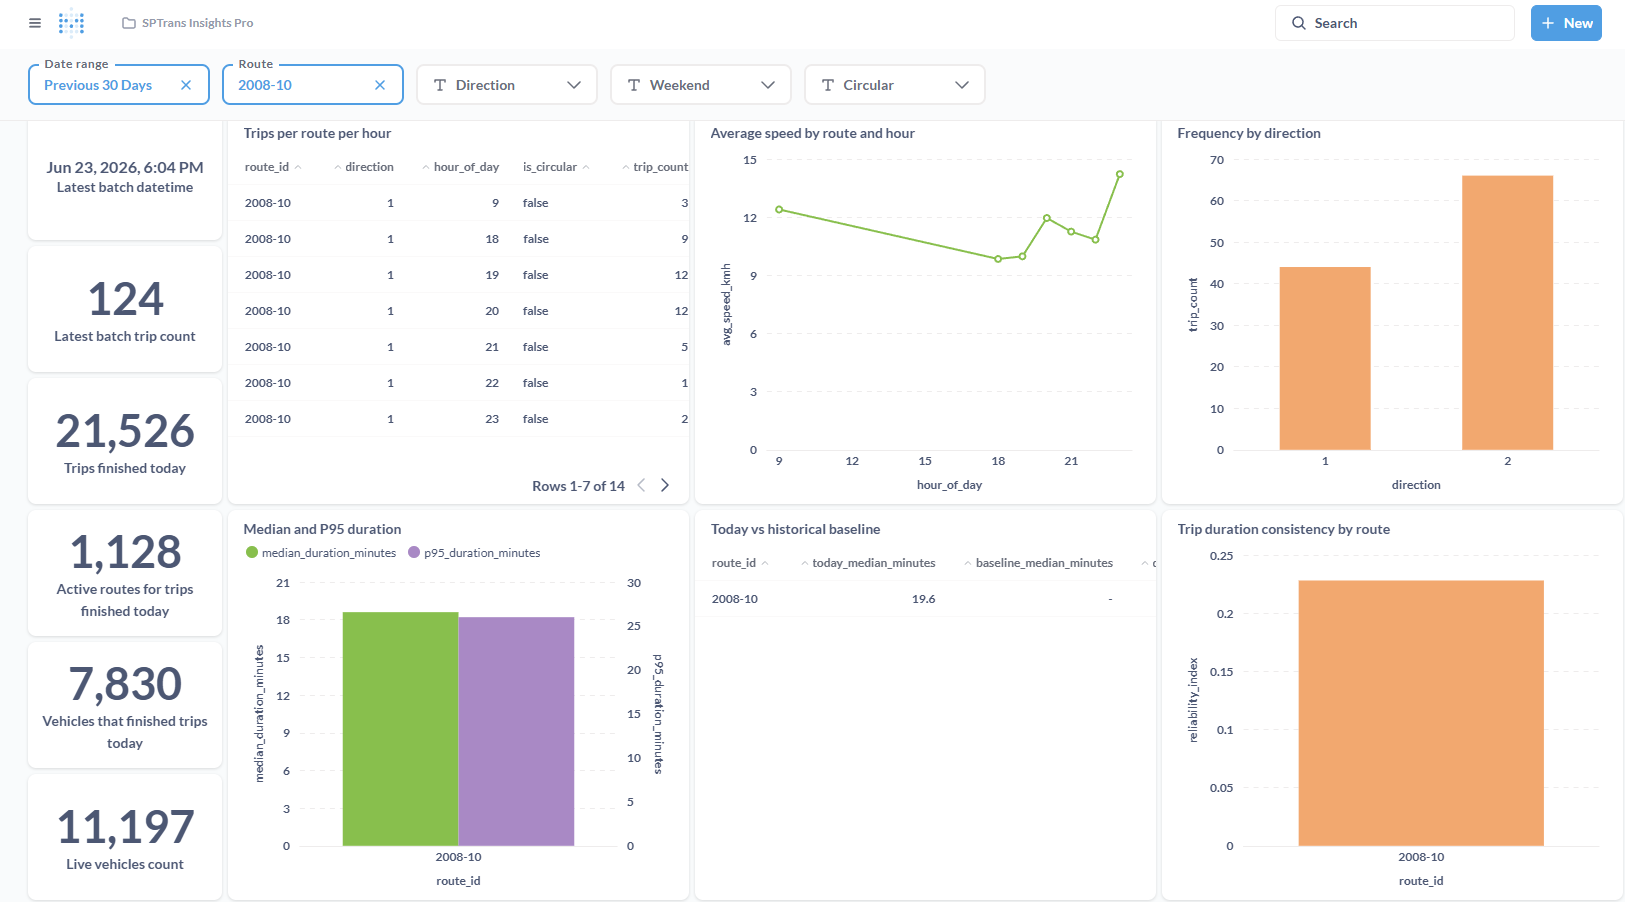
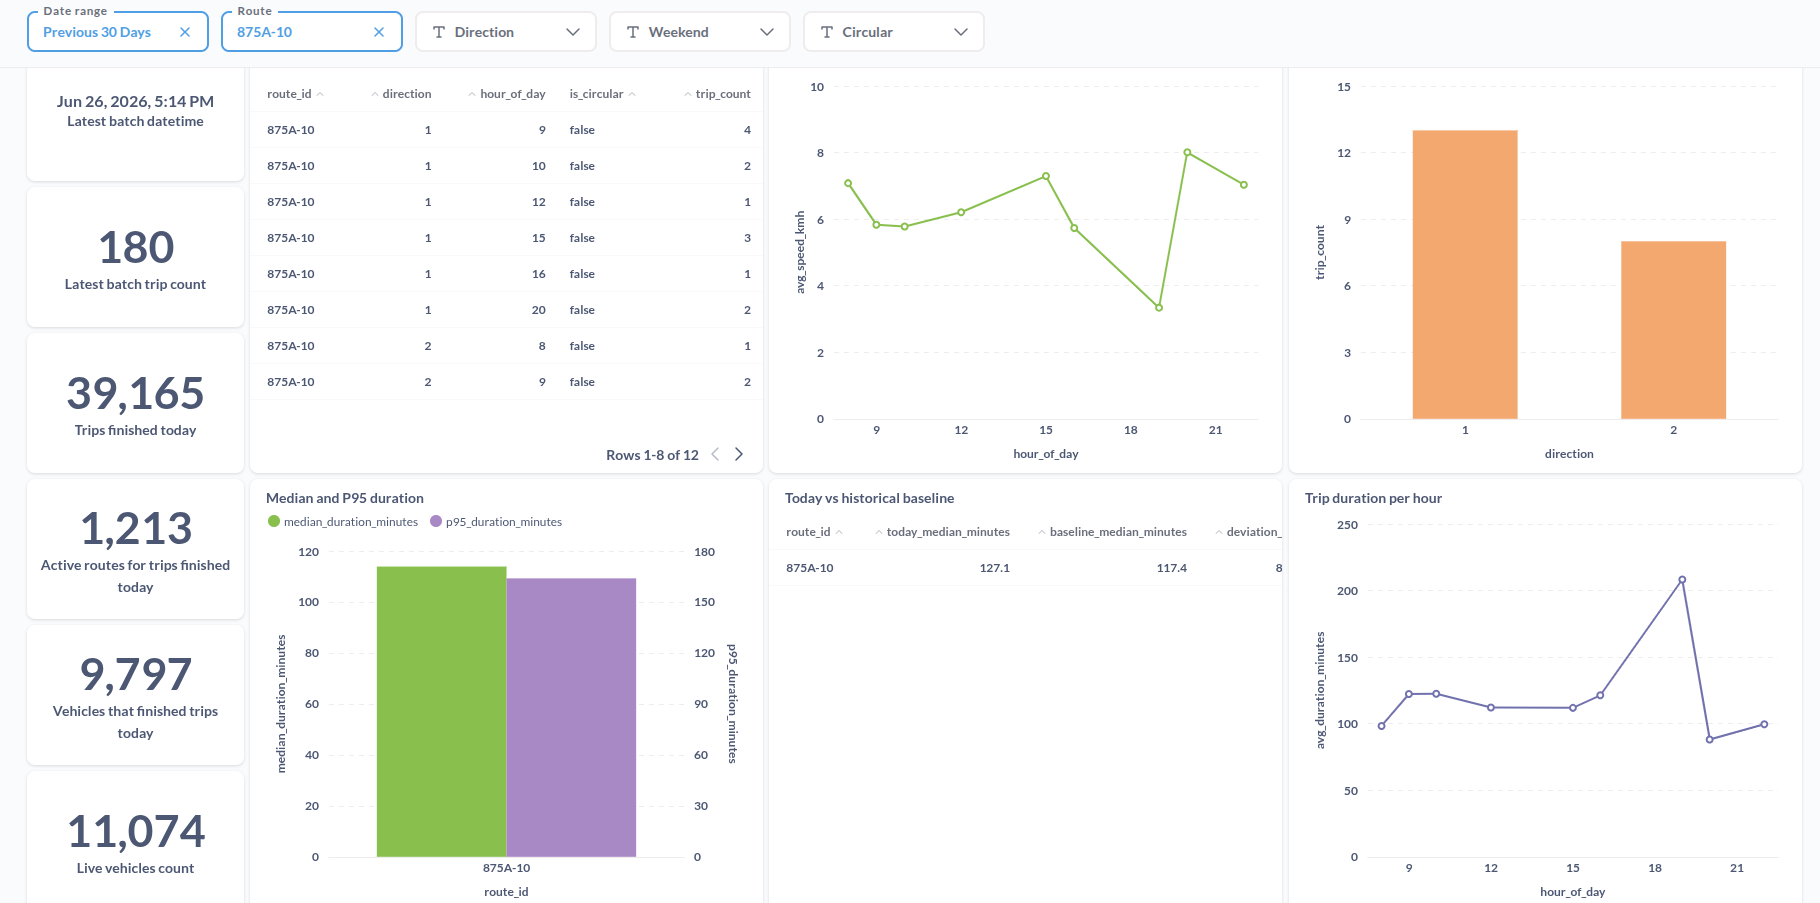
feat(metabase): enhanced dashboard to show trip duration along the day

diff --git a/metabase/README-EN.md b/metabase/README-EN.md
@@ -37,7 +37,7 @@ panels; the PoC files are not edited to track the dashboard.
 | `frequency_by_route_hour_direction.sql`       | P4, P5      | trip **start** (`started_at_time_dim_key`) |
 | `median_and_p95_duration_by_route.sql`        | P6          | trip **start** |
 | `duration_today_vs_same_weekday_baseline.sql` | P7          | trip **start**, fixed 4-week same-weekday window |
-| `reliability_by_route.sql`                    | P8          | trip **start** |
+| `duration_by_hour.sql`                        | P8          | trip **start**; average duration by hour of day |
 | `avg_speed_by_route_and_hour.sql`             | P9          | trip **start** |
 | `route_summary_with_trip_details.sql`         | P10         | trip **start**, joins `trip_details` on `trip_id` |
 | `live_fleet_positions.sql`                    | P11         | live vehicle snapshot; map by `veiculo_lat`/`veiculo_long` |

diff --git a/metabase/README.md b/metabase/README.md
@@ -38,7 +38,7 @@ dashboard.
 | `frequency_by_route_hour_direction.sql`       | P4, P5      | **início** da viagem (`started_at_time_dim_key`) |
 | `median_and_p95_duration_by_route.sql`        | P6          | **início** da viagem |
 | `duration_today_vs_same_weekday_baseline.sql` | P7          | **início** da viagem, janela fixa de 4 semanas do mesmo dia da semana |
-| `reliability_by_route.sql`                    | P8          | **início** da viagem |
+| `duration_by_hour.sql`                        | P8          | **início** da viagem; duração média por hora do dia |
 | `avg_speed_by_route_and_hour.sql`             | P9          | **início** da viagem |
 | `route_summary_with_trip_details.sql`         | P10         | **início** da viagem, faz join com `trip_details` por `trip_id` |
 | `live_fleet_positions.sql`                    | P11         | snapshot ao vivo de veículos; mapa por `veiculo_lat`/`veiculo_long` |